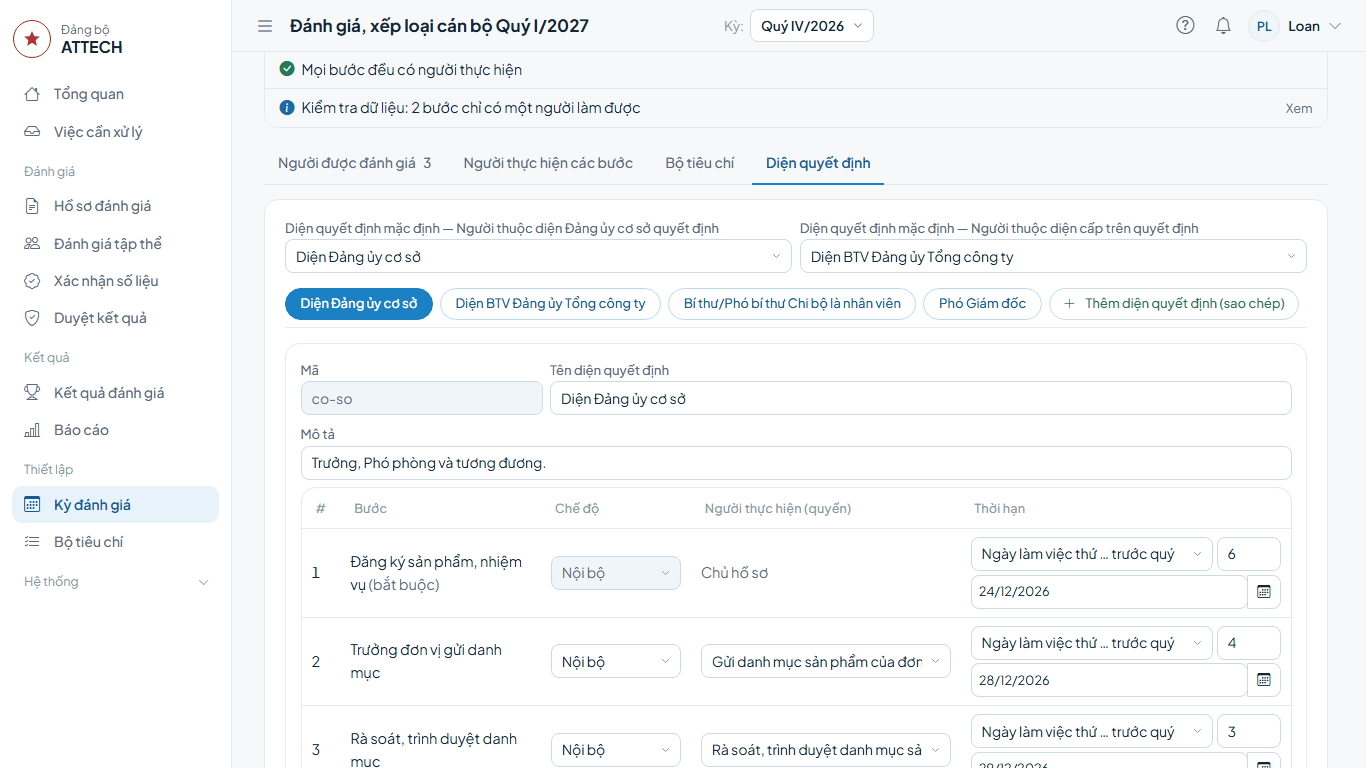
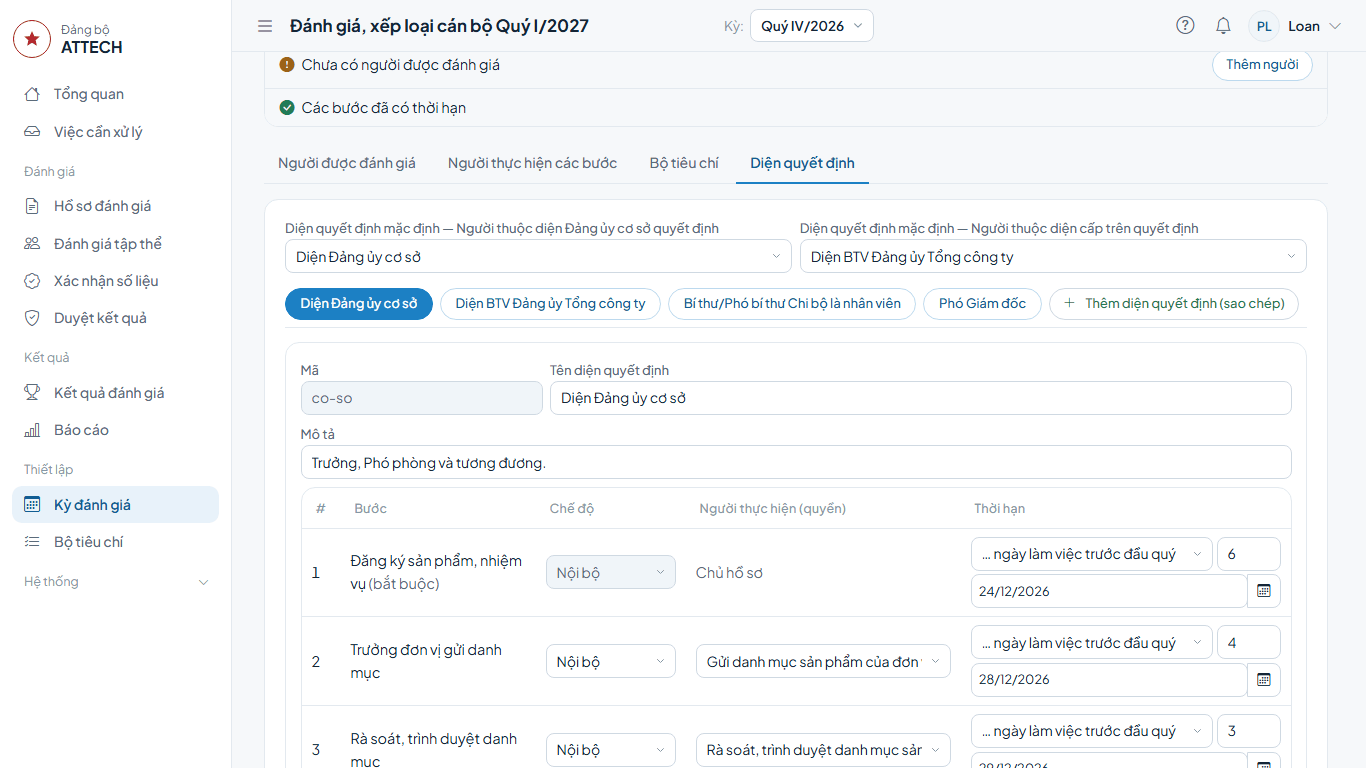
docs(dung-thu): chụp lại ảnh theo giao diện mới, thêm ảnh Chủ tịch duyệt, ghi ý kiến, chuông kiến nghị
Phiếu thẩm định 4 cột, hộp Lập biên bản chỉ hiện hồ sơ chờ quyết định,
nhắc lưu biên bản trước khi chốt, Người thực hiện tính theo kỳ, nhãn hạn
bước 1; ảnh mật khẩu tạm đã làm mờ.

diff --git a/docs/dung-thu/tham-dinh.md b/docs/dung-thu/tham-dinh.md
@@ -92,7 +92,7 @@ Hồ sơ đang thẩm định cũng đánh dấu được ngay trong khung thẩ
 
 ![Việc chờ thẩm định](anh/tham-dinh-10-viec-can-xu-ly.png)
 
-2. Bảng nhiệm vụ: với từng nhiệm vụ, chọn **Mức thẩm định** (Mức 1, Mức 2, Mức 3; bắt buộc đủ), ghi **Nhận xét** ngắn nếu cần. Cột **Tự chấm**, **Vượt chuẩn** cho biết cán bộ tự đánh giá thế nào.
+2. Bảng sản phẩm: dưới tên mỗi sản phẩm ghi loại (và **Vượt chuẩn** nếu có); cột **Tự chấm** là kết quả cán bộ tự đánh giá. Ở cột **Mức thẩm định, nhận xét**, chọn mức cho từng sản phẩm (Mức 1, Mức 2, Mức 3; bắt buộc đủ), ghi **Nhận xét** ngắn ở ô bên dưới nếu cần.
 3. **Chấm tiêu chí chung:** để **Theo nhóm** thì nhập 2 điểm **Tiêu chí chung** và **Kết quả nhiệm vụ** (đã điền sẵn điểm tự chấm, sửa nếu khác). Chọn **Từng tiêu chí** nếu muốn chấm lại từng tiêu chí con.
 4. Ô **Tổng** tự tính. Chọn **Mức đề xuất**; ghi **Ý kiến thẩm định**.
 5. Điểm chênh lệch nhiều so với tự chấm, hoặc đổi mức: ô **Giải trình** có dấu \* (bắt buộc). Ghi rõ căn cứ.
@@ -113,7 +113,7 @@ Hồ sơ đang thẩm định cũng đánh dấu được ngay trong khung thẩ
 **Khi nào:** sau thẩm định và nhận xét, trước khi Văn phòng Đảng ủy ghi quyết định. Mỗi biên bản gom các hồ sơ cùng nhóm chức danh (ví dụ Trưởng phòng và tương đương).
 
 1. Menu **Duyệt kết quả** → thẻ **Họp thống nhất** → bấm **Lập biên bản**.
-2. Hộp **Lập biên bản**: ghi **Nhóm chức danh / phạm vi**; lọc theo diện, đơn vị nếu cần; tích các hồ sơ (hoặc **Chọn tất cả**) → bấm **Lập biên bản**.
+2. Hộp **Lập biên bản**: ghi **Nhóm chức danh / phạm vi**; lọc theo diện, đơn vị nếu cần; tích các hồ sơ (hoặc **Chọn tất cả**) → bấm **Lập biên bản**. Hộp chỉ liệt kê hồ sơ đang chờ quyết định và thuộc diện phải họp thống nhất.
 
 ![Chọn hồ sơ vào biên bản](anh/tham-dinh-21-lap-bien-ban.png)
 
@@ -125,7 +125,7 @@ Hồ sơ đang thẩm định cũng đánh dấu được ngay trong khung thẩ
 
 ![Biên bản họp thống nhất](anh/tham-dinh-22-bien-ban.png)
 
-**Xong thì thấy:** biên bản ở trạng thái **Đang soạn**, chờ Văn phòng Đảng ủy bấm **Chốt biên bản**. Dòng vàng ở đầu trang ghi những gì còn thiếu (ngày họp, chủ trì, thư ký, thành phần tham dự; lý do khi chỉ có một hồ sơ); còn thiếu thì không chốt được: bổ sung rồi **Lưu** lại.
+**Xong thì thấy:** biên bản ở trạng thái **Đang soạn**, chờ Văn phòng Đảng ủy bấm **Chốt biên bản**. Dòng ở đầu trang ghi những gì còn thiếu (ngày họp, chủ trì, thư ký, thành phần tham dự; lý do khi chỉ có một hồ sơ), tính theo nội dung đang nhập; còn thiếu thì không chốt được. Đã đủ nhưng chưa lưu thì dòng ghi **Lưu biên bản trước khi chốt.**: bấm **Lưu**.
 
 ## Phần E. Phiếu kiểm tra (Mẫu 19)
 

diff --git a/docs/dung-thu/anh/DANH-SACH.md b/docs/dung-thu/anh/DANH-SACH.md
@@ -26,6 +26,7 @@ Cột "Giai đoạn": giai đoạn của `tao-du-lieu-thu.ps1` mà hồ sơ đan
 | can-bo-19-nop-phieu.png | Hộp Nộp phiếu tự chấm | `trung.nb` | tu-cham (tay) |
 | can-bo-21-ket-qua.png | Hồ sơ đã công bố, có mức chính thức | `trung.nb` | cong-bo, đã công bố (tay) |
 | can-bo-23-kien-nghi.png | Khối Kiến nghị đang nhập | `trung.nb` | đã công bố |
+| can-bo-24-chuong-tra-loi.png | Chuông và Việc cần xử lý có nhóm Kiến nghị đã được trả lời | `trung.nb` | kiến nghị đã được `hung.dt` trả lời (tay) |
 | can-bo-26-xac-nhan-ke-hoach.png | Kế hoạch 30-60-90 ngày chờ xác nhận | `trung.nb` | đã công bố mức Hoàn thành nhiệm vụ, kế hoạch đã duyệt (tay) |
 
 ## Lãnh đạo đơn vị — lanh-dao-don-vi.md
@@ -84,7 +85,9 @@ Cột "Giai đoạn": giai đoạn của `tao-du-lieu-thu.ps1` mà hồ sơ đan
 | cap-tren-03-viec-duyet-danh-muc.png | Việc cần xử lý, nhóm Duyệt danh mục sản phẩm | `giang.nh` | sau khi `loan.ttp` trình duyệt danh mục `trung.nb` (tay) |
 | cap-tren-04-duyet-danh-muc.png | Khung Duyệt danh mục, đã mở Tỷ lệ A-B-C-D | `giang.nh` | như trên |
 | cap-tren-05-duyet-dieu-chinh.png | Đề nghị điều chỉnh việc chờ duyệt, nút Duyệt / Không duyệt | `giang.nh` | sau khi `trung.nb` gửi đề nghị (tay) |
+| cap-tren-06-chu-tich-duyet.png | Chủ tịch duyệt danh mục Phó Giám đốc | `thinh.lt` | danh mục `thanh.nn` đã trình duyệt (tay) |
 | cap-tren-11-duyet-ke-hoach.png | Kế hoạch 30-60-90 ngày, nút Duyệt kế hoạch | `giang.nh` | kế hoạch `trung.nb` đã lập (tay) |
+| cap-tren-19-viec-ghi-y-kien.png | Việc cần xử lý, nhóm Ghi ý kiến | `thanh.nn` | danh mục `duy.lm` chờ Giám đốc duyệt (tay) |
 | cap-tren-20-ghi-y-kien.png | Khối Ý kiến trước phê duyệt đang ghi | `thanh.nn` | danh mục `duy.lm` chờ Giám đốc duyệt (tay) |
 
 ## Văn phòng Đảng ủy — van-phong-dang-uy.md
@@ -109,4 +112,4 @@ Cột "Giai đoạn": giai đoạn của `tao-du-lieu-thu.ps1` mà hồ sơ đan
 | quan-tri-02-mat-khau-tam.png | Hộp mật khẩu tạm sau Đặt lại mật khẩu (tài khoản thử) | `quantri` | bất kỳ |
 | quan-tri-03-mo-khoa.png | Trang tài khoản có nút Mở khóa đăng nhập (khóa một tài khoản trong CSDL thử) | `quantri` | bất kỳ |
 | quan-tri-04-phan-cong.png | Hộp Phân công vai trò | `quantri` | bất kỳ |
-| quan-tri-05-nguoi-thuc-hien.png | Người thực hiện, Phòng Kế hoạch - Kinh doanh (có nhãn Cấp trên) | `quantri` | kỳ đang mở |
+| quan-tri-05-nguoi-thuc-hien.png | Người thực hiện theo kỳ đang chọn, Phòng Kế hoạch - Kinh doanh (có nhãn Cấp trên) | `quantri` | kỳ đang mở |

diff --git a/docs/dung-thu/can-bo.md b/docs/dung-thu/can-bo.md
@@ -155,7 +155,9 @@ Sau khi Văn phòng Đảng ủy công bố:
 
 ![Gửi kiến nghị](anh/can-bo-23-kien-nghi.png)
 
-**Xong thì thấy:** kiến nghị ghi "Đã gửi, chờ xem xét"; kết quả của bạn trong danh sách ghi "Đang xem xét kiến nghị". Mỗi lúc chỉ gửi được một kiến nghị; chờ trả lời rồi mới gửi kiến nghị khác. Câu trả lời hiện ngay trong khối **Kiến nghị**.
+**Xong thì thấy:** kiến nghị ghi "Đã gửi, chờ xem xét"; kết quả của bạn trong danh sách ghi "Đang xem xét kiến nghị". Mỗi lúc chỉ gửi được một kiến nghị; chờ trả lời rồi mới gửi kiến nghị khác. Khi có trả lời, chuông góc trên có nhóm **Kiến nghị đã trả lời**; **Việc cần xử lý** có nhóm **Kiến nghị đã được trả lời** → bấm **Xem trả lời**. Câu trả lời hiện trong khối **Kiến nghị**.
+
+![Kiến nghị đã được trả lời](anh/can-bo-24-chuong-tra-loi.png)
 
 ## 10. Kế hoạch khắc phục 30-60-90 ngày (Mẫu 17)
 

diff --git a/docs/dung-thu/quan-tri.md b/docs/dung-thu/quan-tri.md
@@ -65,11 +65,10 @@ Dùng để kiểm tra mỗi việc ở một đơn vị đã có người làm,
 
 1. Menu **Hệ thống** → **Người thực hiện**.
 2. Ô **Xem theo**: chọn **Đơn vị chính quyền** hoặc **Tổ chức Đảng**, rồi chọn đơn vị cần xem ở ô bên cạnh.
-3. Mỗi việc liệt kê người thực hiện:
+3. Danh sách việc tính theo các hồ sơ của kỳ đang chọn, gồm cả **Trưởng đơn vị gửi danh mục** và **Rà soát, trình duyệt danh mục**. Mỗi việc liệt kê người thực hiện:
    - người không có nhãn là người ở cấp gần nhất, việc hiện ở **Việc cần xử lý** của họ;
    - nhãn **Cấp trên**: người ở cấp trên, làm được khi người gần nhất vắng;
    - nhãn **Chưa có người**: việc chưa ai làm, cần thêm người;
-   - nhãn **Kỳ hiện tại không dùng**: kỳ đang chọn không có việc này.
 
 ![Người thực hiện](anh/quan-tri-05-nguoi-thuc-hien.png)
 

diff --git a/docs/dung-thu/van-phong-dang-uy.md b/docs/dung-thu/van-phong-dang-uy.md
@@ -22,7 +22,9 @@ Gặp lỗi hoặc chỗ khó hiểu: ghi vào phiếu góp ý `phieu-gop-y.xlsx
 
 **Xong thì thấy:** biên bản ghi **Đã chốt** kèm tên bạn và thời gian.
 
-**Nút bị khóa:** dòng vàng ghi còn thiếu gì (chủ trì, thư ký, thành phần tham dự…). Báo người lập bổ sung.
+**Nút bị khóa:** dòng đầu trang ghi còn thiếu gì (chủ trì, thư ký, thành phần tham dự…). Báo người lập bổ sung.
+
+Hồ sơ trong biên bản đã có quyết định thì không áp lại mức; hồ sơ đó ghi **Đã có quyết định, giữ nguyên**.
 
 ## 2. Xác nhận phiếu kiểm tra (Mẫu 19)
 
